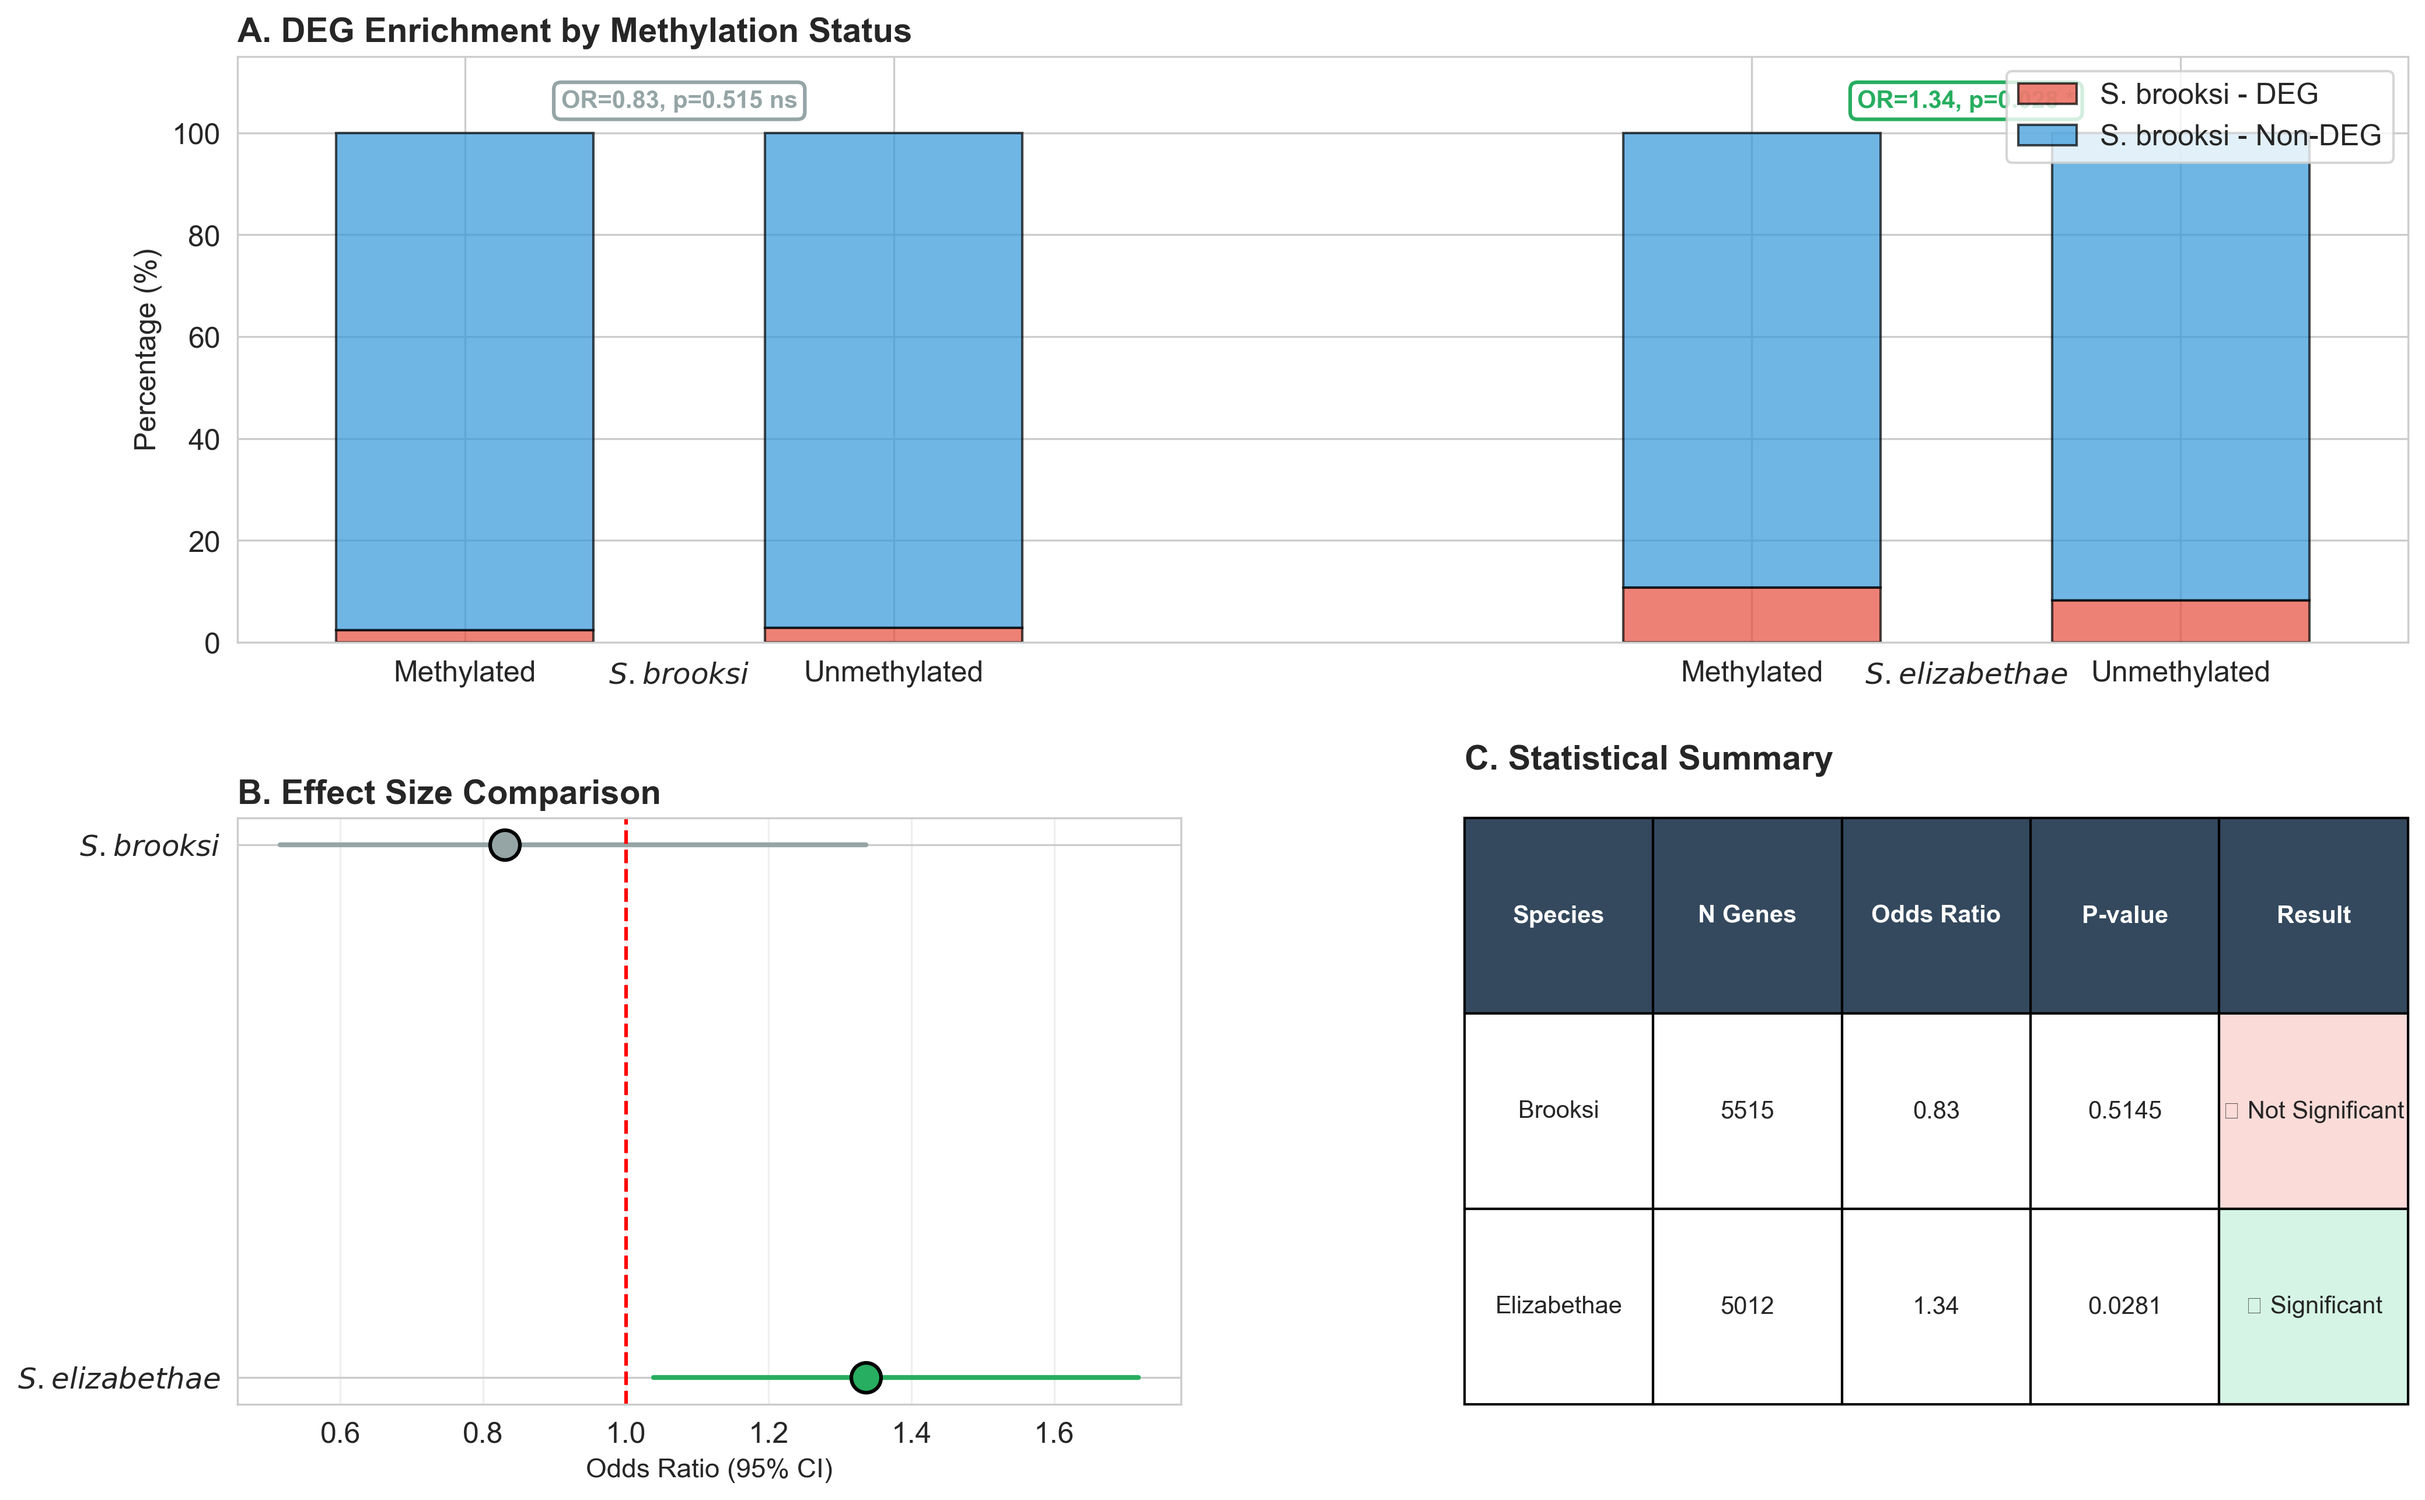
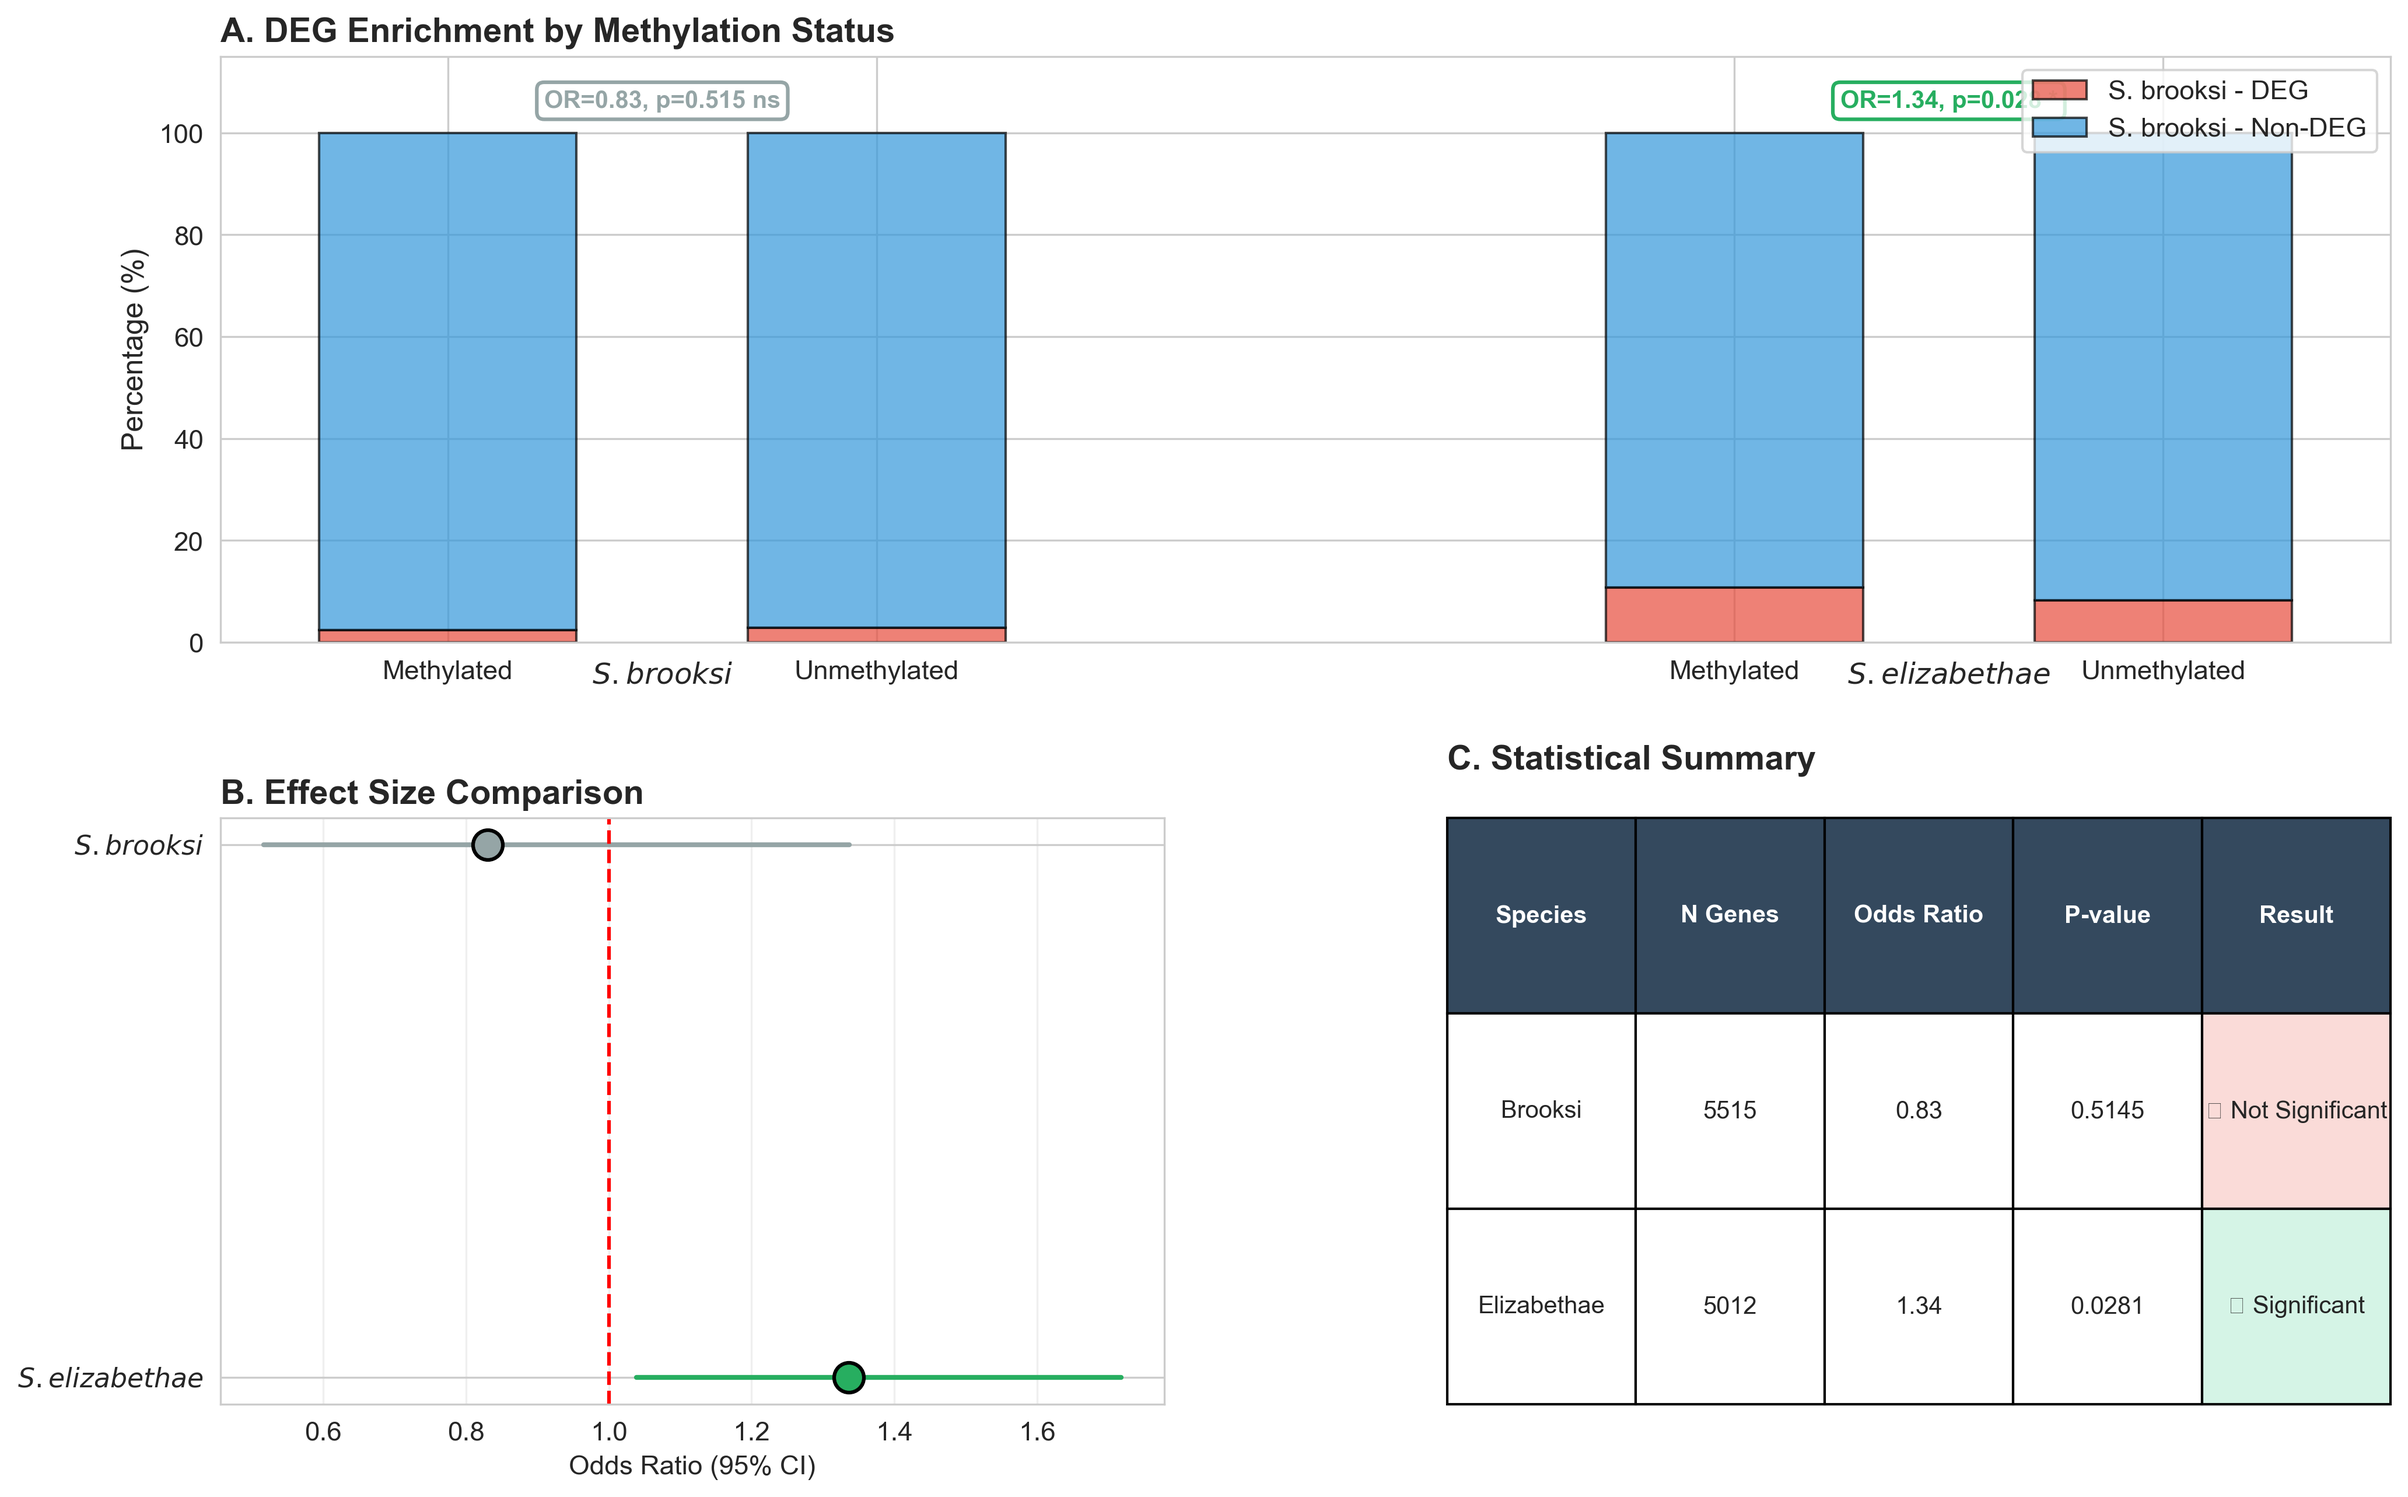
Upgrade Figure 4: Add directional anchors, move legend, improve visual hierarchy

diff --git a/scripts/05_definitive_orthology/create_visualizations.py b/scripts/05_definitive_orthology/create_visualizations.py
@@ -23,10 +23,15 @@ import numpy as np
 from scipy.stats import chi2_contingency
 import seaborn as sns
 
-# Set publication style
+# --- STYLE CONFIGURATION ---
 sns.set_style("whitegrid")
-plt.rcParams['font.size'] = 12
+plt.rcParams['font.size'] = 11
 plt.rcParams['figure.dpi'] = 300
+# High-bandwidth color palette
+DEG_COLOR = '#e74c3c'      # Salmon/Red
+NON_DEG_COLOR = '#3498db'  # Blue
+SIG_COLOR = '#27ae60'      # Green
+NS_COLOR = '#95a5a6'       # Gray
 
 # Load contingency tables
 brooksi = pd.read_csv('Results/05_ortholog_analysis/brooksi_contingency_table.csv', index_col=0)
@@ -34,6 +39,21 @@ elizabethae = pd.read_csv('Results/05_ortholog_analysis/elizabethae_contingency_
 
 # Load summary stats
 summary = pd.read_csv('Results/05_ortholog_analysis/summary_statistics.csv')
+
+def calculate_or_ci(ctable):
+    """Calculate Odds Ratio and 95% CI"""
+    a, b = ctable.iloc[0, 0], ctable.iloc[0, 1]
+    c, d = ctable.iloc[1, 0], ctable.iloc[1, 1]
+    or_val = (a * d) / (b * c) if (b * c) != 0 else float('inf')
+    se_log_or = np.sqrt(1/a + 1/b + 1/c + 1/d)
+    log_or = np.log(or_val)
+    return or_val, np.exp(log_or - 1.96 * se_log_or), np.exp(log_or + 1.96 * se_log_or)
+
+# Prep stats
+ors, lows, highs = [], [], []
+for ct in [brooksi, elizabethae]:
+    o, l, h = calculate_or_ci(ct)
+    ors.append(o); lows.append(l); highs.append(h)
 
 # ============================================================
 # FIGURE 1: Normalized Stacked Bar Chart (Enrichment Plot)
